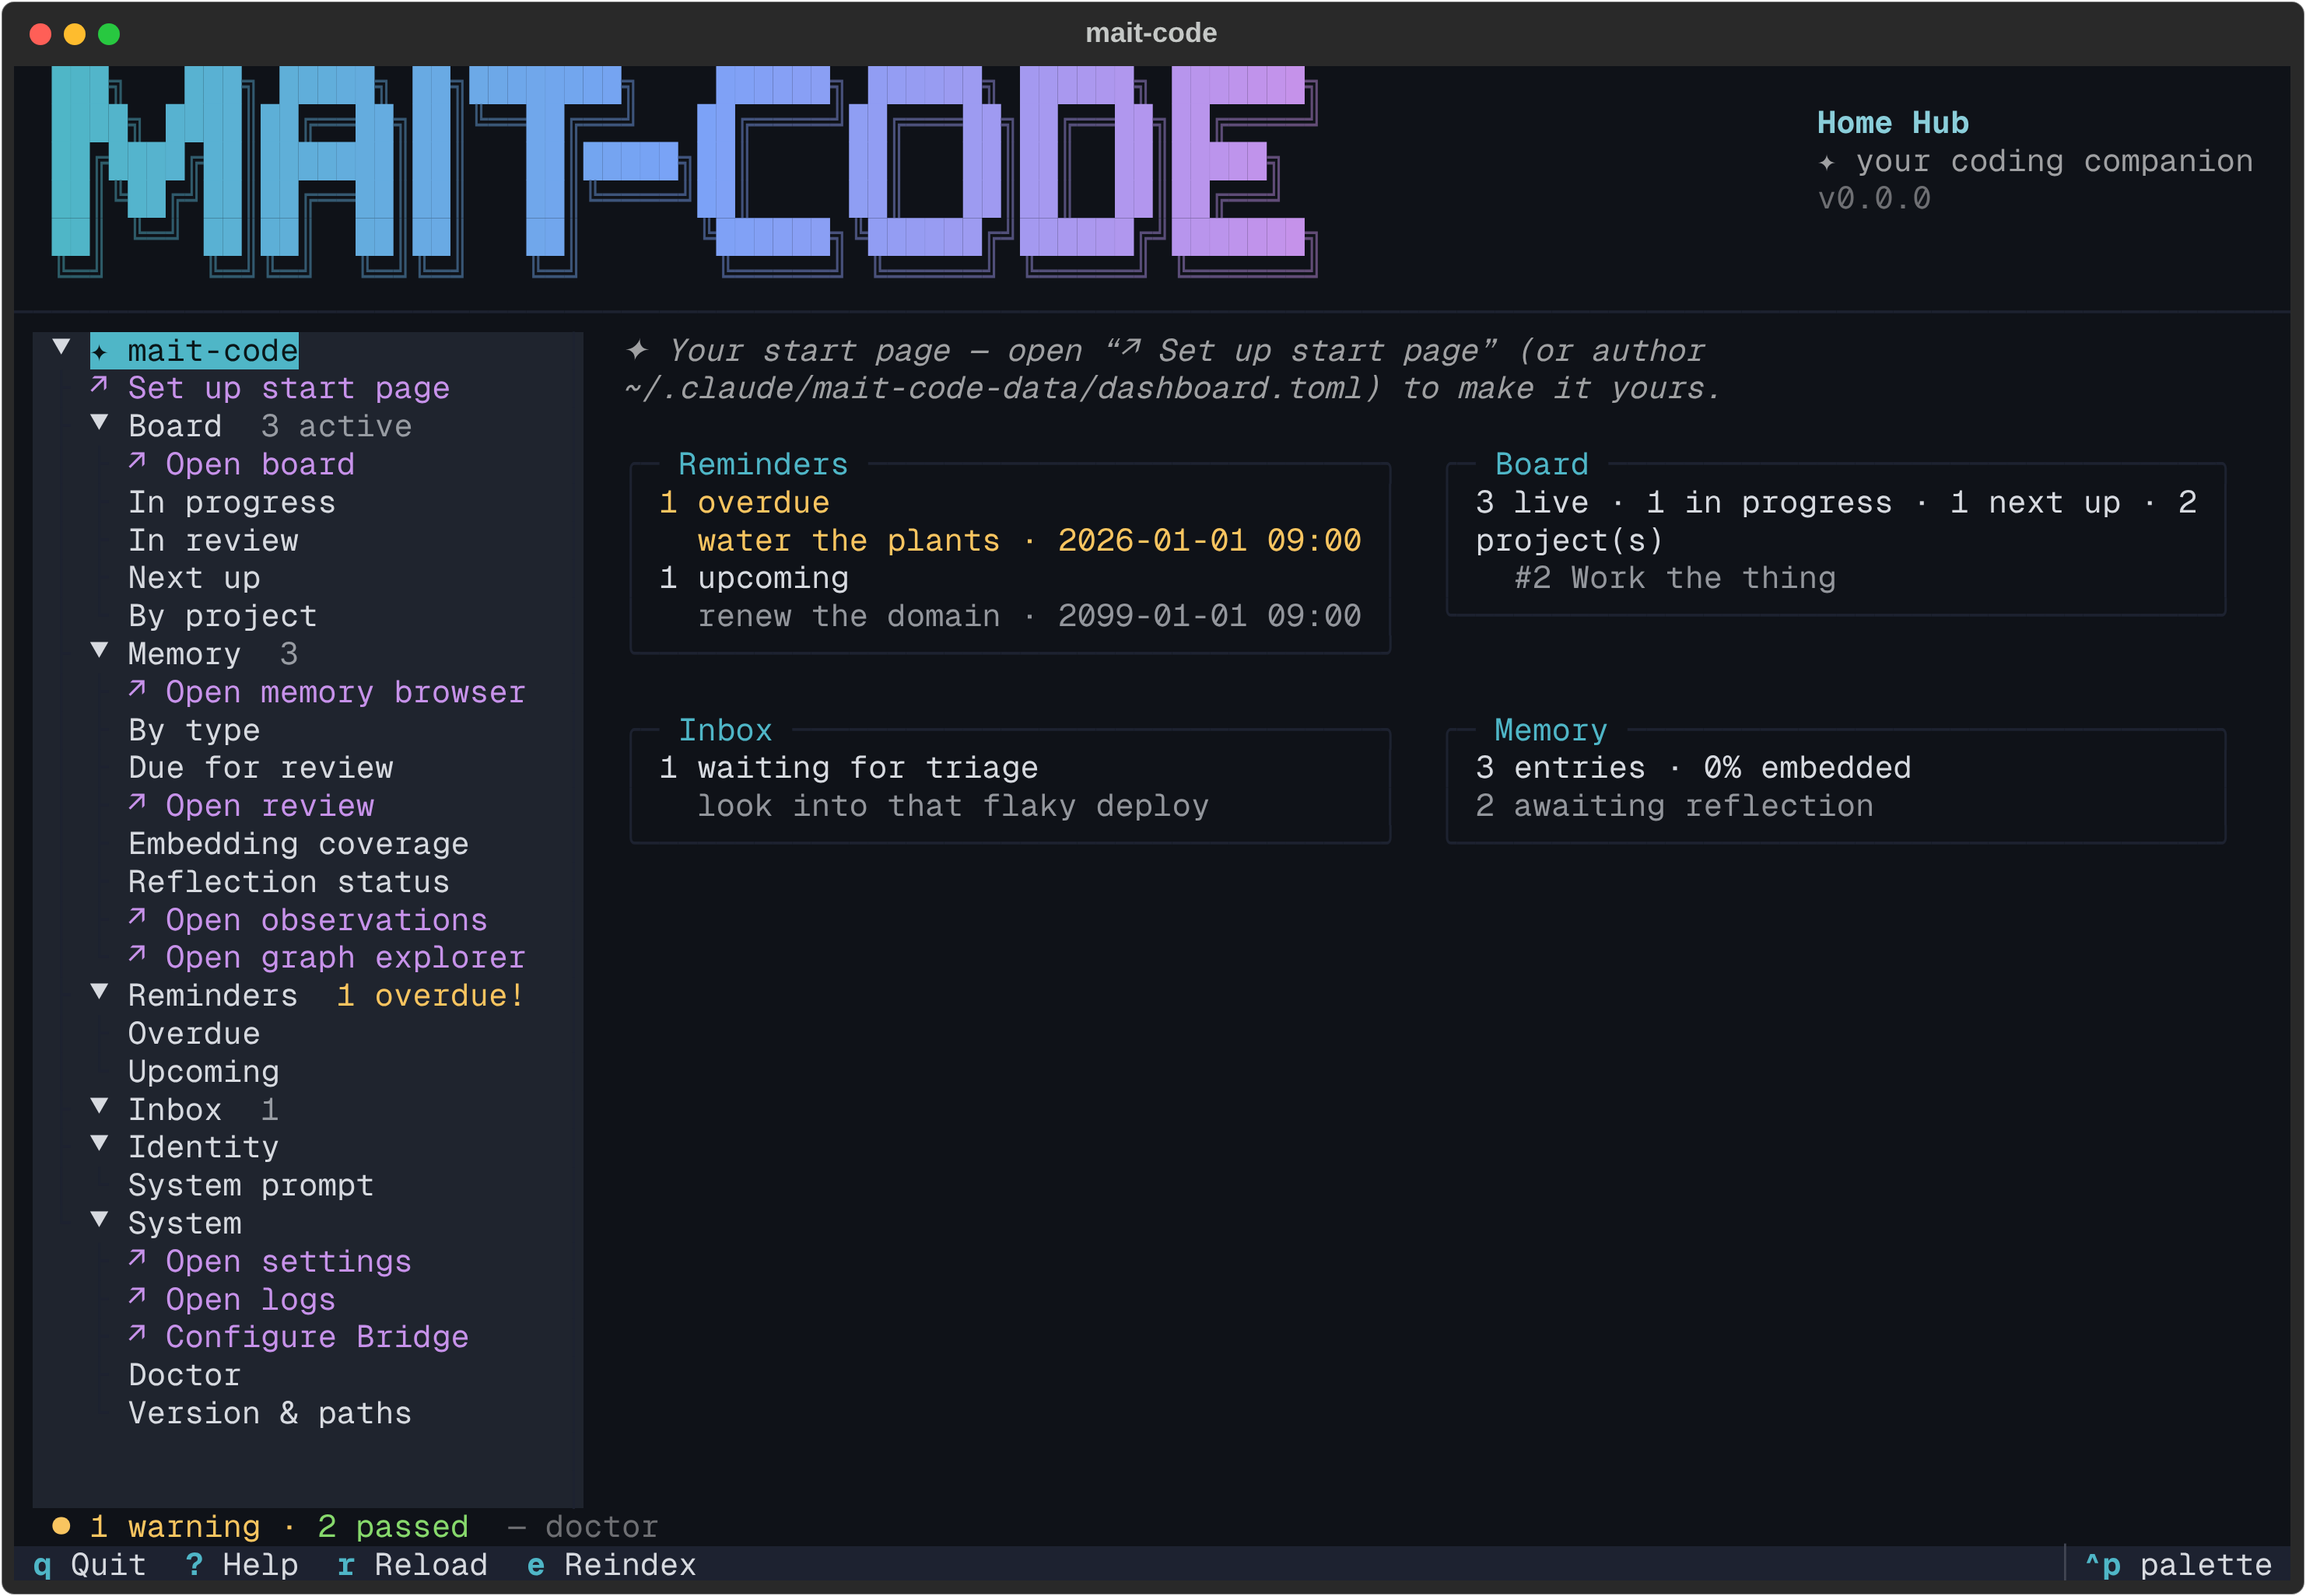
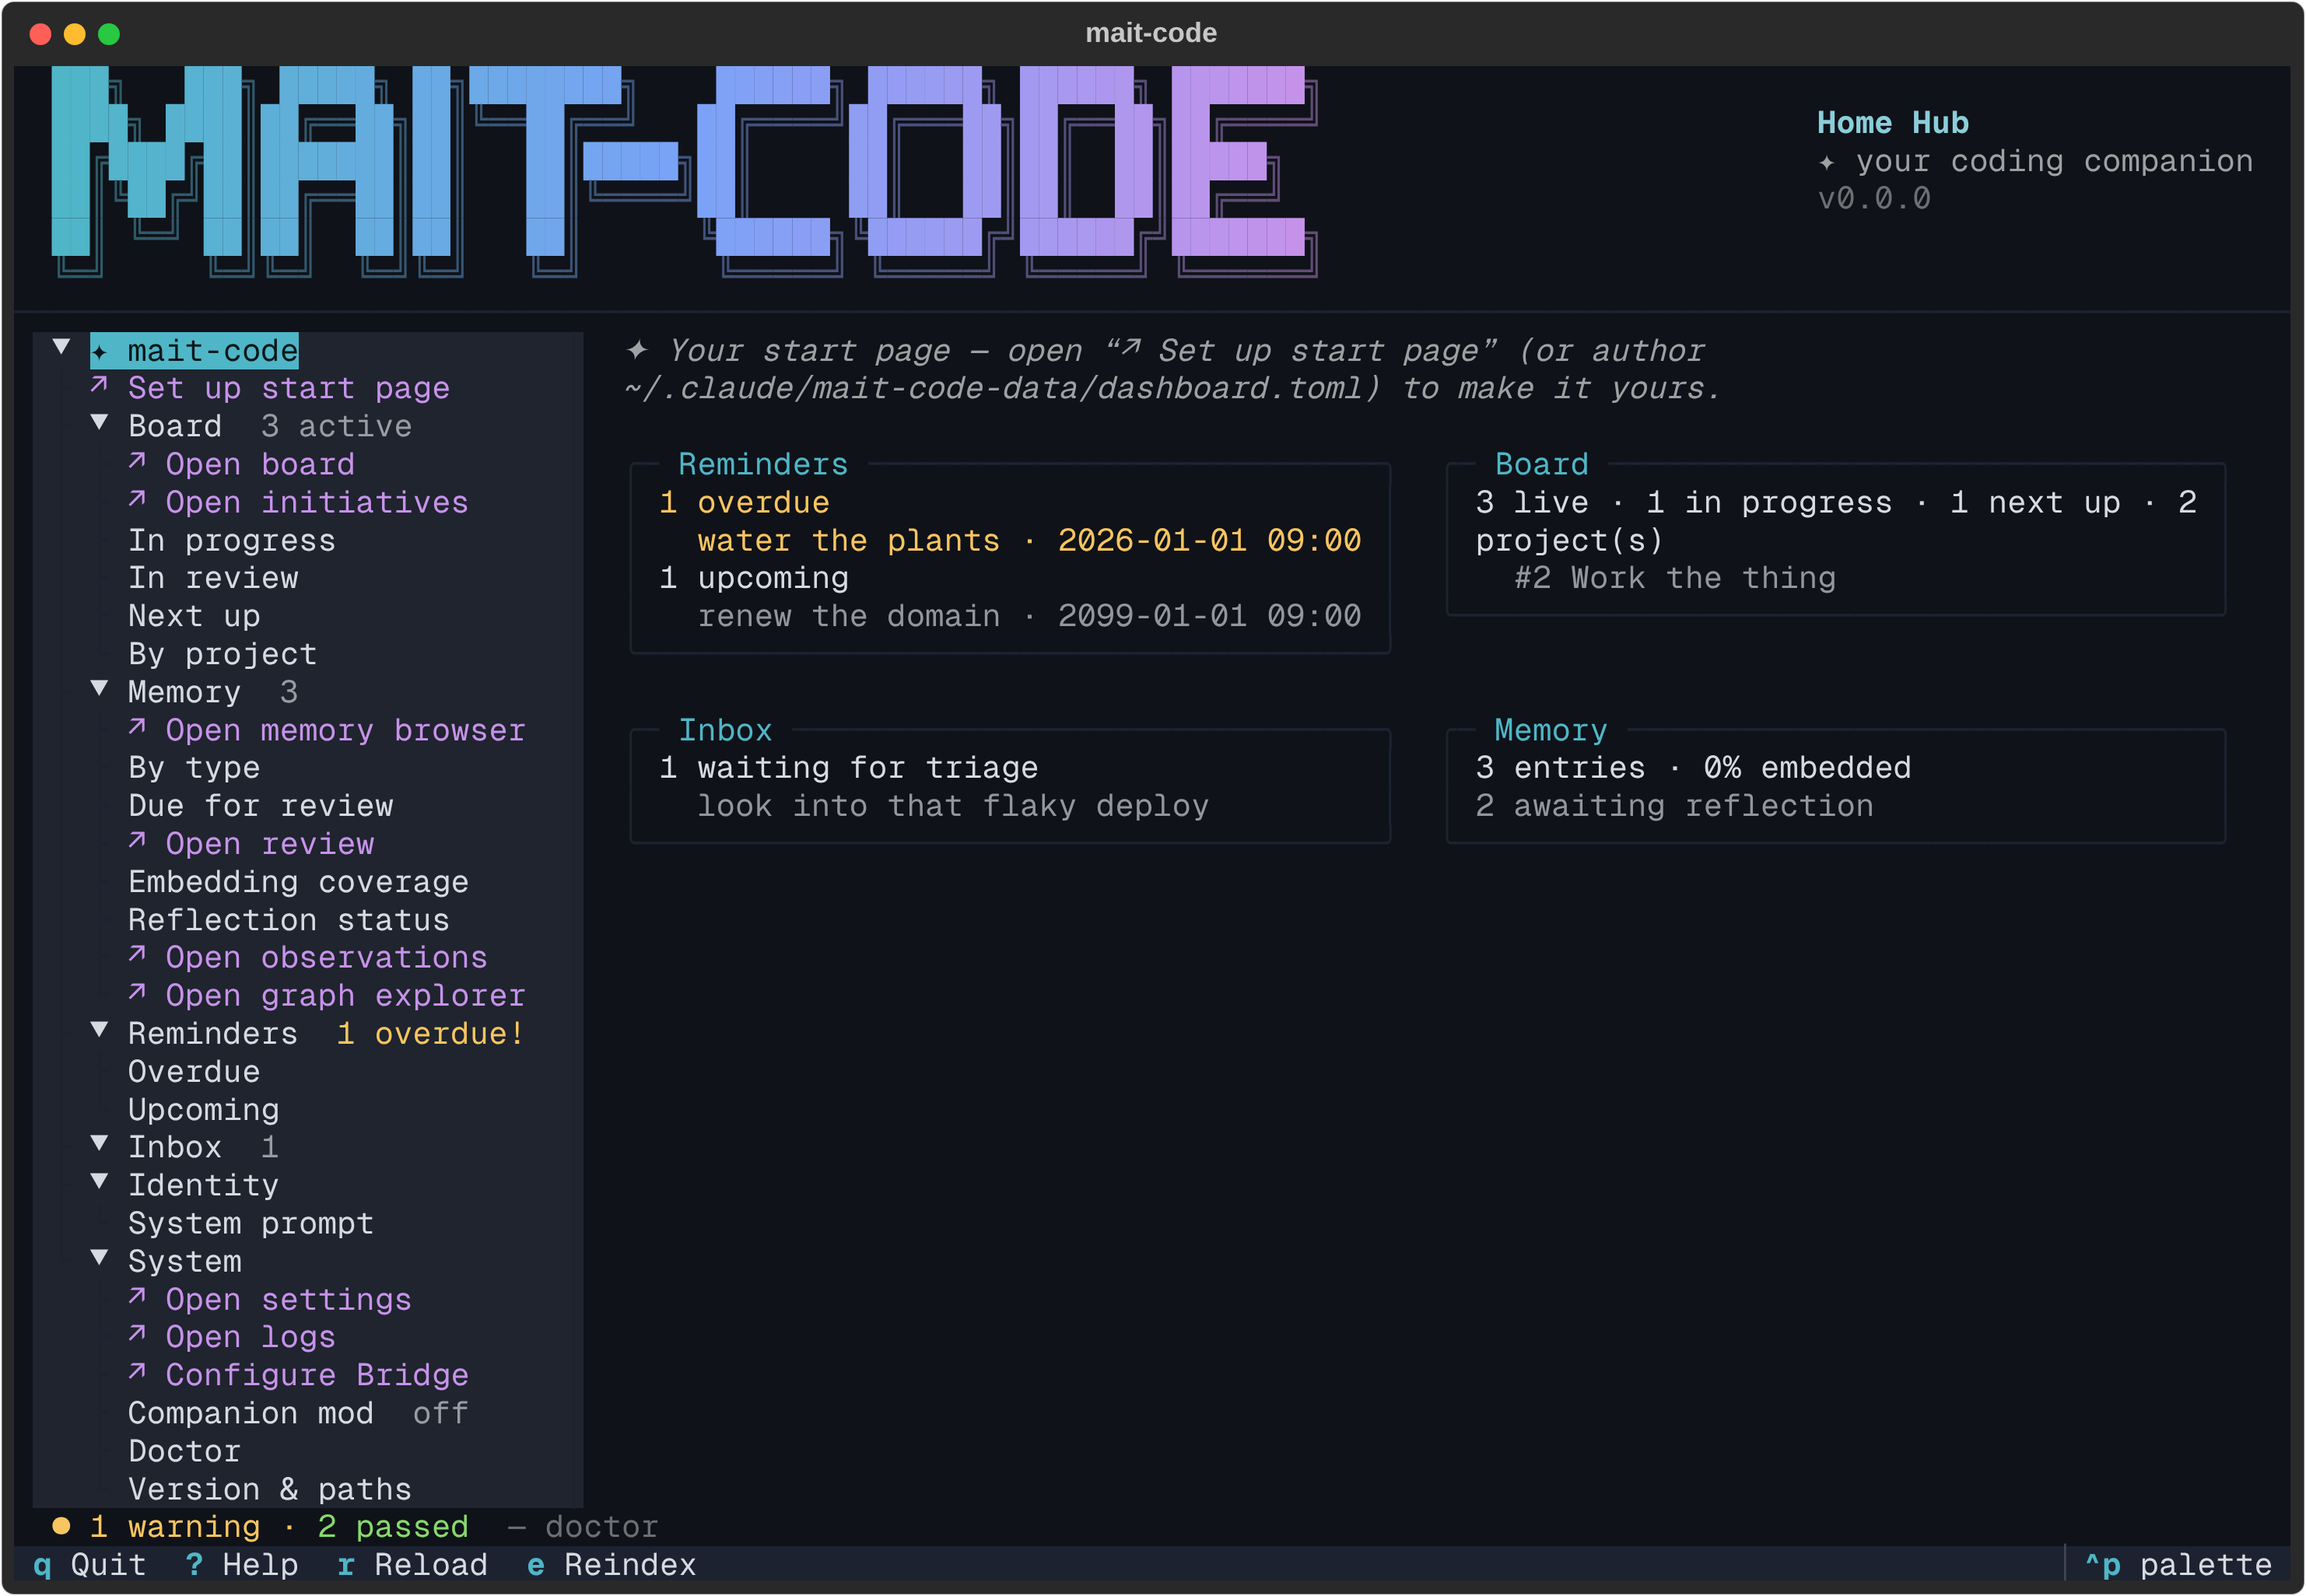
docs(screenshots): re-render stale TUI shots and cover the initiatives view
The board, home and settings screenshots predated their snapshot baselines,
so they were missing the initiatives leaf, the companion mod group, the
communication-style block and the card relationships section. Re-render them,
publish the initiatives view and its dependency diagram from the board
generator, and add a generator for the graph explorer's shots, which had none.

Changed region(s): [[0.031, 0.3119, 0.2173, 0.9357]]

diff --git a/docs/gen_board_screenshots.py b/docs/gen_board_screenshots.py
@@ -10,11 +10,13 @@ The board now wears the brand banner, block-shadow wordmark and all, so the shot
 are rasterised through headless Chrome rather than published as SVG (an SVG seams
 across the block art — see :mod:`_screenshots` for the full why and the machine
 requirements). The card-detail shots sit at a normal width with the masthead
-behind the modal.
+behind the modal. The Initiatives view is its own snapshot suite but documents
+inside the board guide, so its shots publish here too.
 
 Regeneration workflow::
 
-    uv run pytest tests/cli/test_board_tui_snapshot.py --snapshot-update
+    uv run pytest tests/cli/test_board_tui_snapshot.py \
+        tests/cli/test_initiatives_tui_snapshot.py --snapshot-update
     uv run python docs/gen_board_screenshots.py
 """
 
@@ -25,23 +27,34 @@ from pathlib import Path
 from _screenshots import find_chrome, render_png, retheme_font
 
 _REPO_ROOT = Path(__file__).resolve().parent.parent
-_SNAPSHOTS = _REPO_ROOT / "tests/cli/__snapshots__/test_board_tui_snapshot"
+_SNAPSHOT_ROOT = _REPO_ROOT / "tests/cli/__snapshots__"
 _ASSETS = _REPO_ROOT / "docs/assets/board"
 
-#: snapshot baseline (stem) -> published asset filename.
+#: (snapshot suite dir, baseline stem) -> published asset filename.
 _SCREENSHOTS = {
-    "test_board_rich_snapshot": "board.png",
-    "test_board_rich_expanded_snapshot": "board-expanded.png",
-    "test_detail_full_snapshot": "card-detail.png",
-    "test_detail_markdown_snapshot": "card-detail-markdown.png",
+    ("test_board_tui_snapshot", "test_board_rich_snapshot"): "board.png",
+    (
+        "test_board_tui_snapshot",
+        "test_board_rich_expanded_snapshot",
+    ): "board-expanded.png",
+    ("test_board_tui_snapshot", "test_detail_full_snapshot"): "card-detail.png",
+    (
+        "test_board_tui_snapshot",
+        "test_detail_markdown_snapshot",
+    ): "card-detail-markdown.png",
+    ("test_initiatives_tui_snapshot", "test_initiatives_snapshot"): "initiatives.png",
+    (
+        "test_initiatives_tui_snapshot",
+        "test_diagram_snapshot",
+    ): "initiatives-diagram.png",
 }
 
 
 def main() -> None:
     chrome = find_chrome()
     _ASSETS.mkdir(parents=True, exist_ok=True)
-    for stem, asset in _SCREENSHOTS.items():
-        source = _SNAPSHOTS / f"{stem}.raw"
+    for (suite, stem), asset in _SCREENSHOTS.items():
+        source = _SNAPSHOT_ROOT / suite / f"{stem}.raw"
         if not source.exists():
             raise FileNotFoundError(
                 f"missing snapshot baseline {source} — run the snapshot suite with "

diff --git a/docs/gen_graph_screenshots.py b/docs/gen_graph_screenshots.py
@@ -1,0 +1,49 @@
+"""Generate the graph-explorer documentation screenshots from the TUI snapshot baselines.
+
+The graph guide (``docs/graph.md``) embeds screenshots of the live explorer. Those
+start as the very SVG artefacts the snapshot suite renders under
+``tests/cli/__snapshots__/`` — so they stay accurate automatically: whenever the
+explorer's look changes, the snapshot baseline is regenerated and this script
+renders it afresh. The explorer wears the block-shadow wordmark, so the shots are
+rasterised through headless Chrome (see :mod:`_screenshots` for why and the
+machine requirements).
+
+Regeneration workflow::
+
+    uv run pytest tests/cli/test_graph_tui_snapshot.py --snapshot-update
+    uv run python docs/gen_graph_screenshots.py
+"""
+
+from __future__ import annotations
+
+from pathlib import Path
+
+from _screenshots import find_chrome, render_png, retheme_font
+
+_REPO_ROOT = Path(__file__).resolve().parent.parent
+_SNAPSHOTS = _REPO_ROOT / "tests/cli/__snapshots__/test_graph_tui_snapshot"
+_ASSETS = _REPO_ROOT / "docs/assets/graph"
+
+#: snapshot baseline (stem) -> published asset filename.
+_SCREENSHOTS = {
+    "test_graph_view_default": "graph.png",
+    "test_table_view": "table.png",
+}
+
+
+def main() -> None:
+    chrome = find_chrome()
+    _ASSETS.mkdir(parents=True, exist_ok=True)
+    for stem, asset in _SCREENSHOTS.items():
+        source = _SNAPSHOTS / f"{stem}.raw"
+        if not source.exists():
+            raise FileNotFoundError(
+                f"missing snapshot baseline {source} — run the snapshot suite with "
+                "--snapshot-update first."
+            )
+        render_png(chrome, retheme_font(source.read_text()), _ASSETS / asset)
+        print(f"wrote docs/assets/graph/{asset}  (from {stem})")
+
+
+if __name__ == "__main__":
+    main()
